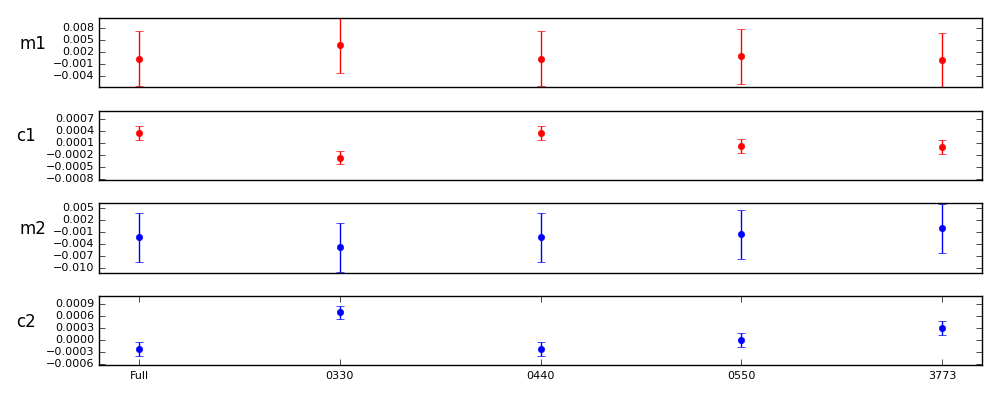
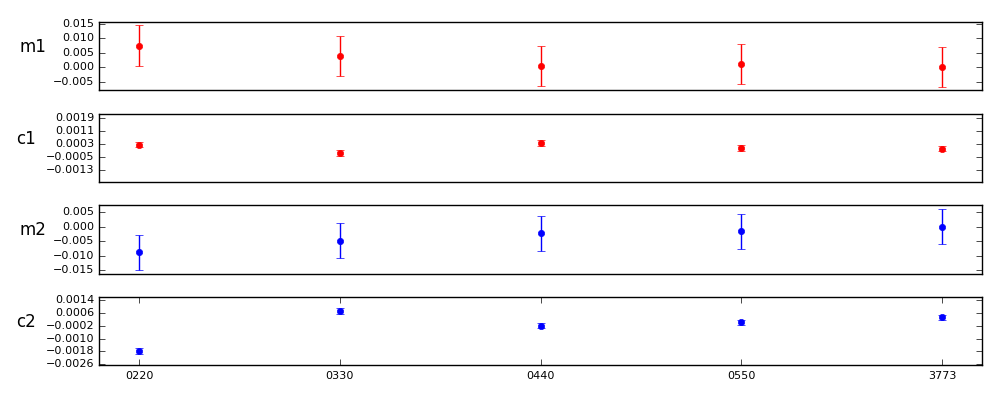
Corrections to some of the diagrams

diff --git a/index.rst b/index.rst
@@ -40,9 +40,9 @@
 
 This document describes a framework which was developed to test DM Stack shape measurement algorithms, as well as to compare algorithm configurations. It can be used with any algorithm housed in a measurement "plugin" as defined by the lsst.meas.base package.  The plugin must produce a result which can be used to calculate galaxy ellipticity.
 
-The algorithms tested in this document are in the meas_modelfit package, which houses both the CModel algorithm -- used to measure galaxy shapes) and the ShapeletPsfApprox Algorithm (SPA) -- used to create a parameterized model of the PSF (point spread function). Our goal was to run both PSF approximation and shape measurement on large numbers of simulated galaxies with known shear and PSF distortions, and to compare the shear measurements produced.
+The algorithms tested in this document are in the meas_modelfit package, which houses both the CModel algorithm -- used to measure galaxy shapes) and the ShapeletPsfApprox Algorithm (SPA) -- used to create a parameterized model of the PSF (point spread function). Our goal was to run both PSF approximation and shape measurement on large numbers of simulated galaxies with known shear and PSF distortions, and to compare the shear measurements produced by diffent configurations of these algorithms.
 
-We hope in the future to test a variety of shape algorithms, including future versions of CModel, which was still under development when the test described here were done. The work described here is therefore of interest for the test techniques developed than for any particular result.
+We hope in the future to test a variety of shape algorithms, including future versions of CModel and SPA. The work described here is more of interest for the test techniques developed than for any particular result.
 
 Techniques used in this simulations
 ===================================
@@ -52,7 +52,7 @@ Galaxy Shear Experiments Scripts
 
 The framework for running these tests can be found in the repository https://github.com/lsst-dm/galaxy_shear_experiments.  The README in this repository contains instructions for running this code.
 
-The Python scripts were used to automate the production of simulation images, running the shape measurement algorithm, and analysis for shear bias. The scripts can be used in single process mode, in a parallel processing mode on multiple core machines, or with a batch system such as the SLAC Batch Farm.
+Python scripts were used to automate the production of simulation images, the running of the measurement algorithm, and the analysis of the measured shear. The scripts allow single process mode, a parallel process mode on multiple core machines, and batch processing with a system such as the SLAC Batch Farm.
 
 Test configurations and the PSF libraries actually used are not currently part of this repository, but will be added in the future. Scripts for parallel processing at SLAC will also be added as they are completed.
  
@@ -63,9 +63,9 @@ The great3-public repository (https://github.com/barnabytprowe/great3-public) pr
 
 Branch Setup:
 ^^^^^^^^^^^^^
-The galaxy samples were selected using the great3sims "control/ground/constant" branch. This branch specifies its galaxies in "subfields", where a subfield is just a group of galaxies with the same applied shear. The size of the postage stamps and the number of galaxies per subfield is configurable.  Details of the configuration used are described with each test below.
+The galaxy samples were selected using the great3sims "control/ground/constant" branch. This branch creates groups of galaxies in "subfields", where all galaxies in a subfield have the same applied shear. The size of the postage stamps and the number of galaxies per subfield is configurable.  Details of the configuration used are described with each test below.
  
-Note that all of our simulations, the galaxies are created as 90 degree rotated pairs to reduce shape noise.
+Note that in all of our simulations, the galaxies are created as 90 degree rotated pairs to reduce shape noise.
 
 One important modification to great3Sims was to sample the PSF for each galaxy from a PhoSim PSF Library (described below). Ordinarily, great3sims supplies the PSF specification to GalSim as a parameterized model. We suppled our own PSF libraries (a set of 67x67 pixel images at the LSST plate scale), using the GalSim InterpolatedImage type.
 
@@ -158,15 +158,17 @@ The bootstrap method consistently gives an error which is larger than the analyt
 
 Since the ratio of the two was roughly constant and the calculated error is easier to get, we uniformly took as our error the calculated error multiplied by 2.2.
 
-Testing Parameterizations of ShapeletPsfApprox (DM-1136 and DM-4214)
+Testing Parameterizations of ShapeletPsfApprox
 ====================================================================
 
-This set set of tests were intended to test ShapeletPsfApprox(SPA), and in particular, to find out how high the shapelet orders have to be to produce a stable PSF estimation.  SPA is a four component “multi-shapelet function” model of the PSF, where the four components (from narrowest to broadest) are named “inner”, “primary”, “wings”, and “outer”.  An SPA model is designated in this document with four numbers:  for example, 1234 means inner order = 1, primary order = 2, wings order = 3, and outer order = 4.
+These tests were done under issues DM-1136 and DM-4214.  To assess computational demands, we tested ShapeletPsfApprox (SPA) to find out how low the SPA fits orders can be without substantially affecting the quality of the PSF estimate. SPA is a four component “multi-shapelet function” model of the PSF, where the four components (from narrowest to broadest) are named “inner”, “primary”, “wings”, and “outer”.  An SPA model is designated in this document with four numbers:  for example, 1234 means inner order = 1, primary order = 2, wings order = 3, and outer order = 4.
+
+In our earlier graph, SingleGaussian is -0--, Double Gaussian is -00-, and Full is 0440. ('-' means that no value was fit for the component).
 
 Test setup
 --------------
 
-Subfields: 100x100 (10000 galaxies in 5000 pairs). A total of 200 subfields for each test, with g1 and g2 selected from the great3sims default distribution.
+Subfields: 100x100 (10000 galaxies in 5000 pairs). A total of 200 subfields for each test, with g1 and g2 selected as in the great3sims control/ground/constant branch.
 
 PSF: filter f2 (r) and "raw seeing" 0.7 arcsecs. Single PSF selected from f2_0.7 PhoSim library.
 
@@ -175,21 +177,20 @@ Error estimation increased by multiplying the calculated error by 2.2.  This cor
 
 Finding "best" parameterization for ShapeletPsfApprox
 -----------------------------------------------------
-We are hoping to find out how high the order of the estimation parameters must be before our measurement of the bias parameters plateaus.
 
 Comparing parameterizations is a little tricky, as the effects of the parameters are not independent of each other.  To make this comparison more tractable, I've chose to take slices through the parameter space, relying to some extent on the previous experience that the “primary” parameter has the biggest effect, followed by the “wings”.  The “inner” and “outer” seem to have less of an effect.  
 
-My first set was to compare parameterizations of the form 0nn0, where n=2,3,4,5,6.  The 3773 parameterization is shown for reference.
+The first trial was to compare parameterizations of the form 0nn0, where n=2,3,4,5.  The 3773 parameterization is shown for reference.
 
   .. figure:: /_static/figure_4.png
      :name: figure_4
      :target: _images/figure_4.png
 
-     Parameterizations of the form 0nn0.  Full is 0220
+     Parameterizations of the form 0nn0.
 
 .. literalinclude:: /_static/table_1.txt
 
-Things appear to settle around 0440 or 0550.  But none of these differ from the reference model by 3 sigma.
+The results appear to get better up to 0550. However, none of the models above 0330 differ from the 3773 model are different at the 3 sigma level.
 
 However, note the similar comparisons with inner and outer set to 2 or 3. The primary and wings settings seem to settle by order 4 with higher order in the inner and outer components.
 
@@ -229,7 +230,7 @@ Our earliest tests were tests of CModel configurations. For these tests, the SPA
 
 We reproduce here a couple of results having to do with the size of the measurement area used by the CModel algorithm.
 
-These tests were also useful is assessing how many galaxies would be needed to see significant differences. As a result of these these tests, we decided to move our tests for single host, multi-core machines at Davis to the computing farm at SLAC, as large galaxy populations were seen to be needed. 
+These tests were also useful in assessing how many galaxies would be needed to see significant differences. As a result of these these tests, we decided to move our tests from single host, multi-core machines at Davis to the computing farm at SLAC, as larger galaxy populations were seen to be needed. 
 
 Test setup
 ----------
@@ -245,7 +246,7 @@ Test Descriptions:
 ------------------
 Initially, the test was done with 128 subfields at 6 shear values (.0001, .01, .02, .03, .04, .06), for a total of 786,432 galaxies.
 
-When these intial tests were not sensitive enough, tests of 1024 subfields and later 2048 subfields were tried (up to 6 million galaxies).
+When these intial tests were not sensitive enough, tests of 1024 subfields and later 2048 subfields were tried (up to 12 million galaxies).
 
 The results of the earlier tests were published with the Summer 2015 issues, DM-3375 and DM-1135. These tests showed obvious trends, but did not have large enough galaxy samples to display significant pair-wise differences. 
 
